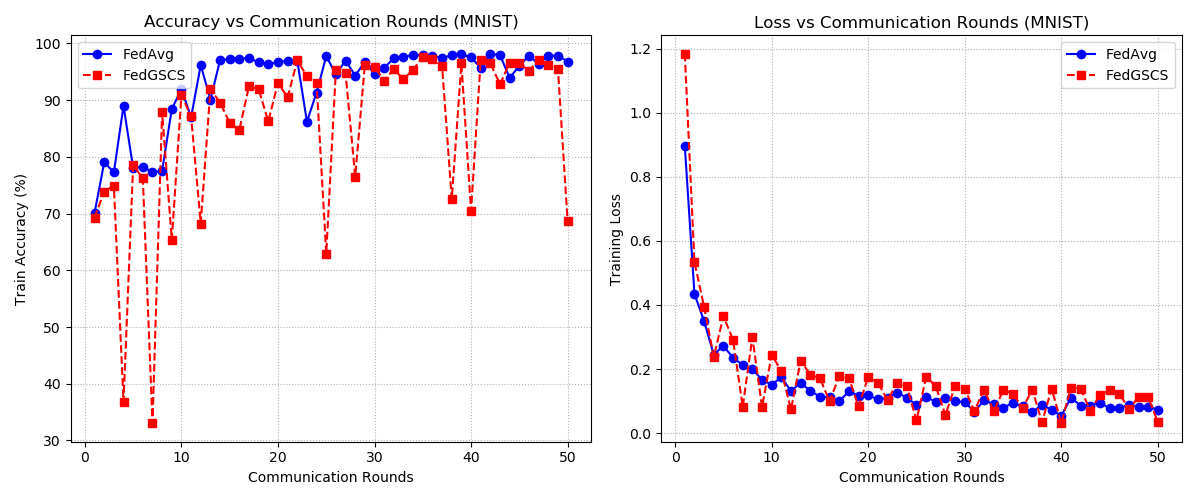
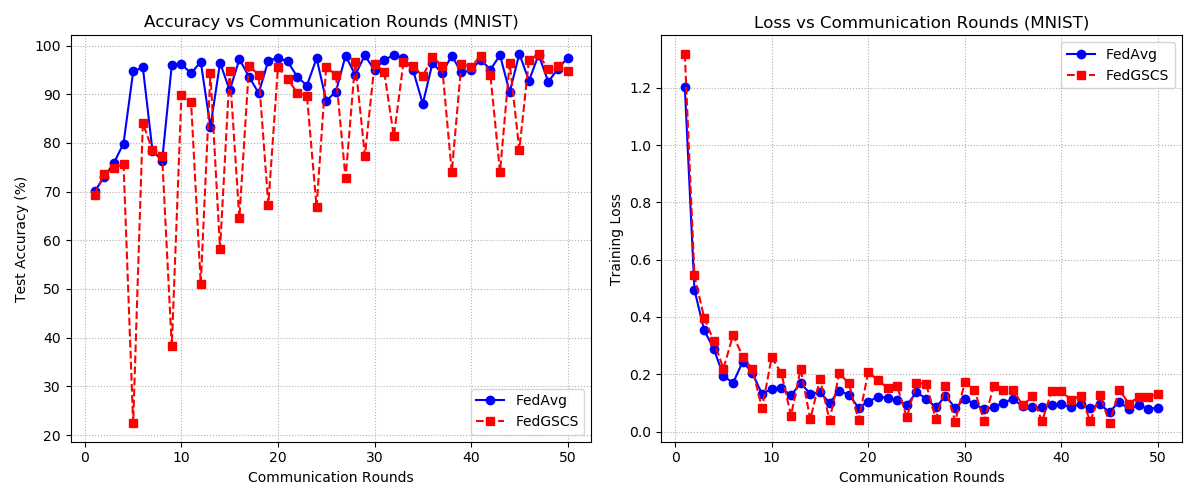
noniid izitta

diff --git a/src/federated_main_FedGSCS.py b/src/federated_main_FedGSCS.py
@@ -29,6 +29,10 @@ if __name__ == '__main__':
     # コマンドライン引数の読み込み
     args = args_parser()
     exp_details(args)
+    #シード値の固定
+    args = args_parser()
+    np.random.seed(args.seed)
+    torch.manual_seed(args.seed)
     # GPUの設定
     if hasattr(args, 'gpu_id') and args.gpu_id is not None:
         torch.cuda.set_device(args.gpu_id)
@@ -76,7 +80,9 @@ if __name__ == '__main__':
     # ここで作られるglobal_modelが、サーバー側で管理される「全体の中心となる共有モデル」になる
     # copy weights（初期状態のグローバルモデルの重みを取得）
     global_weights = global_model.state_dict()
-
+    grad_keys = [k for k in global_weights.keys()
+                 if torch.is_floating_point(global_weights[k])]
+    q_frac = 0.3
     # Training
     train_loss, train_accuracy = [], []
     val_acc_list, net_list = [], []
@@ -88,12 +94,13 @@ if __name__ == '__main__':
     for epoch in tqdm(range(args.epochs)):
         local_weights, local_losses = [], []
         local_gradients = []#各端末の勾配を保存するリスト
+        local_sizes = []
         print(f'\n | Global Training Round : {epoch+1} |\n')
 
         global_model.train()
         #今回のラウンドに参加するユーザーをランダムに選別
-        #m = max(int(args.frac * args.num_users), 1)
-        m = max(int(0.2 * args.num_users), 1)
+        m = max(int(args.frac * args.num_users), 1)
+        #m = max(int(0.2 * args.num_users), 1)
         idxs_users = np.random.choice(range(args.num_users), m, replace=False)
 
         #選ばれたユーザーごとに、データを渡して手元でモデルを訓練させる。
@@ -116,6 +123,7 @@ if __name__ == '__main__':
             local_weights.append(copy.deepcopy(w))
             local_losses.append(copy.deepcopy(loss))
             local_gradients.append(grad_vector)#勾配ベクトルをリストに保存
+            local_sizes.append(len(user_groups[idx]))
 
         #平均勾配の計算
         all_grads=torch.stack(local_gradients)
@@ -130,7 +138,7 @@ if __name__ == '__main__':
         
         #類似度が高い上位q個の端末の厳選
         #何個にしたらいいだろう
-        q=max(int(0.3*m),1)
+        q=max(int(q_frac*m),1)
         top_q_indices = torch.topk(torch.tensor(cos_scores), k=q).indices.tolist()
         selected_real_users = [idxs_users[i] for i in top_q_indices]
         # Group AのユーザーID境界
@@ -147,24 +155,21 @@ if __name__ == '__main__':
         global_model.load_state_dict(global_weights)
         '''
         #加重平均
-        selected_scores = torch.tensor([cos_scores[i] for i in top_q_indices])
-        selected_scores = torch.clamp(selected_scores, min=0.0)
-        #weights_norm = torch.softmax(selected_scores, dim=0)
-        #重みの正規化
-        score_sum = torch.sum(selected_scores)
-        if score_sum > 0:
-            weights_norm = selected_scores / score_sum
-        else:
-            weights_norm = torch.ones(q) / q
-        # 新しいグローバル重みの計算（加重統合）
+       # [修正5] ステップ5：合格した端末だけを「データ量に応じた加重平均」で統合する
+        # （コサイン類似度による重み付けは論文の手順にないので削除）
+        selected_sizes = torch.tensor([local_sizes[i] for i in top_q_indices],
+                                      dtype=torch.float32)
+        weights_norm = selected_sizes / torch.sum(selected_sizes)
         new_global_weights = {}
         for key in global_weights.keys():
+            # [修正6] 整数のバッファ（num_batches_tracked など）は平均せず、そのままコピー
+            if not torch.is_floating_point(global_weights[key]):
+                new_global_weights[key] = local_weights[top_q_indices[0]][key].clone()
+                continue
             new_global_weights[key] = torch.zeros_like(global_weights[key], dtype=torch.float32)
             for idx_idx, i in enumerate(top_q_indices):
-                # 選ばれたクライアントの重みをスコア倍して足し合わせる（ほえー）
                 weight = weights_norm[idx_idx].item()
                 new_global_weights[key] += weight * local_weights[i][key].to(device)
-
         global_weights = new_global_weights
         global_model.load_state_dict(global_weights)
         # ロス計算も選ばれた端末の平均にする

diff --git a/src/plot_comparison.py b/src/plot_comparison.py
@@ -31,7 +31,7 @@ if __name__ == '__main__':
     plt.plot(epochs, [a * 100 for a in fedgscs_acc], 's--', label='FedGSCS', color='red')
     plt.title(f'Accuracy vs Communication Rounds ({args.dataset.upper()})')
     plt.xlabel('Communication Rounds')
-    plt.ylabel('Train Accuracy (%)')
+    plt.ylabel('Test Accuracy (%)')
     plt.grid(True, linestyle=':')
     plt.legend()
 

diff --git a/src/federated_main.py b/src/federated_main.py
@@ -29,6 +29,10 @@ if __name__ == '__main__':
     args = args_parser()
     exp_details(args)
 
+    #シード値の固定
+    args = args_parser()
+    np.random.seed(args.seed)
+    torch.manual_seed(args.seed)
     if hasattr(args, 'gpu_id') and args.gpu_id is not None:
         torch.cuda.set_device(args.gpu_id)
     device = 'cuda' if args.gpu else 'cpu'
